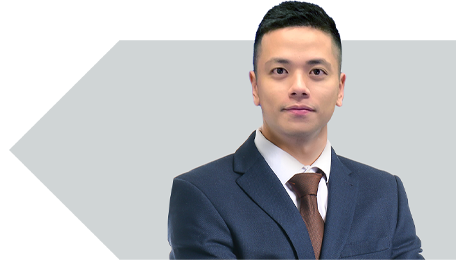
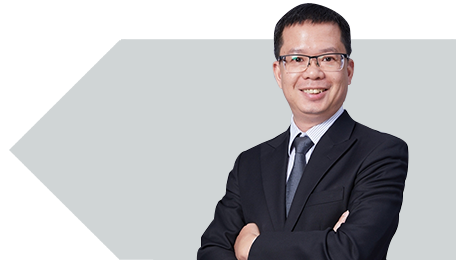
initial

diff --git a/source/index_vn.html b/source/index_vn.html
@@ -47,7 +47,7 @@
                 <td>&nbsp;</td>
                 <td style="margin: 0px; padding: 0px; font-family: Arial, Helvetica, sans-serif !important; font-size: 14px; line-height: 1.3;"><table width="100%" border="0" cellpadding="0" cellspacing="0" class="chs_body">
                   <tr>
-                    <td style="padding: 0; margin: 0; border: none; line-height: 1.3; font-size: 14px; font-family: Arial, Helvetica, sans-serif !important;"><img src="image/chs_hsbc_logo.jpg" width="291" height="30" alt="" style="display: block"/></td>
+                    <td style="padding: 0; margin: 0; border: none; line-height: 1.3; font-size: 14px; font-family: Arial, Helvetica, sans-serif !important;"><img src="image/chs_hsbc_logo.png" width="338" height="30" alt="" style="display: block"/></td>
                     <td width="10%" align="right" style="padding: 0; margin: 0; border: none; line-height: 1.3; font-size: 14px; font-family: Arial, Helvetica, sans-serif !important;">&nbsp;</td>
                   </tr>
                 </table></td>
@@ -89,7 +89,7 @@
 								    <td valign="top" align="left" style="margin: 0; padding: 0; border: none; font-family: Arial, Helvetica, sans-serif !important; font-size: 14px; line-height: 1.3;">&nbsp;</td>
 							    </tr>
 								  <tr>
-								    <td valign="top" align="left" style="margin: 0; padding: 0; border: none; font-family: Arial, Helvetica, sans-serif !important; font-size: 14px; line-height: 1.3;">Năm 2023, nền kinh tế Việt Nam dự kiến sẽ đối diện với nhiều thách thức trong và ngoài nước; khiến cho môi trường đầu tư sẽ có nhiều biến số và thay đổi liên tục. Nắm bắt nhu cầu cập nhật thông tin của Quý khách, HSBC Premier hân hạnh phối hợp cùng đối tác Dragon Capital tổ chức buổi hội thảo <strong>Khai mở tiềm năng đầu tư 2023</strong>, để chia sẻ cùng Quý khách các dịch vụ hỗ trợ tài chính toàn cầu của HSBC Premier và thông tin thị trường hữu ích.</td>
+								    <td valign="top" align="left" style="margin: 0; padding: 0; border: none; font-family: Arial, Helvetica, sans-serif !important; font-size: 14px; line-height: 1.3;">Năm 2023 nền kinh tế Việt Nam đã và đang đối diện với nhiều thách thức trong và ngoài nước; khiến cho môi trường đầu tư sẽ có nhiều biến số và thay đổi liên tục. Nắm bắt nhu cầu cập nhật thông tin của Quý khách, HSBC Premier hân hạnh phối hợp cùng đối tác VinaCapital tổ chức buổi hội thảo <strong>Khai mở tiềm năng đầu tư</strong>, để chia sẻ cùng Quý khách các dịch vụ hỗ trợ tài chính toàn cầu của HSBC Premier và thông tin thị trường hữu ích.</td>
 							    </tr>
 								  <tr>
 								    <td valign="top" align="left" style="margin: 0; padding: 0; border: none; font-family: Arial, Helvetica, sans-serif !important; font-size: 14px; line-height: 1.3;">&nbsp;</td>
@@ -124,7 +124,7 @@
 										  </table></td>
 								  </tr>
 								  <tr>
-									  <td valign="top" align="center" style="margin: 0; padding: 20px 0 0 0; border: none; font-family: Arial, Helvetica, sans-serif !important; font-size: 18px; line-height: 1.3; color: #FFFFFF;">Thứ 7, 18/03/2023<br />
+									  <td valign="top" align="center" style="margin: 0; padding: 20px 0 0 0; border: none; font-family: Arial, Helvetica, sans-serif !important; font-size: 18px; line-height: 1.3; color: #FFFFFF;">Thứ 7, 22/04/2023<br />
 9:00 AM - 11:30 AM</td>
 								  </tr>
 								  </table></td>
@@ -228,8 +228,8 @@ HSBC Premier kết nối toàn cầu<br />
 và hoạch định tài chính cho<br />
 cuộc sống thịnh vượng</strong><br />
 <br />
-<strong>Ông Phan Viết Đạt</strong><br />
-Giám đốc Quan Hệ Khách Hàng Premier - Khối Dịch vụ Quản lý Tài sản và Tài chính Cá nhân, HSBC Việt Nam</td>
+<strong>Ông Quán Ngọc Tuấn</strong><br />
+Giám đốc chi nhánh Hà Nội, khối Dịch vụ Quản lý Tài sản và Tài chính Cá nhân, HSBC Việt Nam</td>
 									  <td width="250" align="right" valign="middle" bgcolor="#FFFFFF" style="margin: 0; padding: 0; border: none; font-family: Arial, Helvetica, sans-serif !important; font-size: 14px; line-height: 1.3; color: #000000;"><img src="image/chs_box_5.png" width="230" height="auto" alt="" style="display:block"/></td>
 									  <td width="28" align="left" style="margin: 0; padding: 0; border: none; font-family: Arial, Helvetica, sans-serif !important; font-size: 14px; line-height: 1.3; color: #000000;">&nbsp;</td>
 								  </tr>
@@ -255,8 +255,8 @@ Giám đốc Quan Hệ Khách Hàng Premier - Khối Dịch vụ Quản lý Tài
 									  <td bgcolor="#006654" valign="middle" style="margin: 0; padding: 0 28px 0 0; border: none; font-family: Arial, Helvetica, sans-serif !important; font-size: 16px; line-height: 1.3; color: #FFFFFF;"><strong>Tổng quan tình hình kinh tế tại<br />
 Việt Nam và triển vọng 2023</strong><br />
 <br />
-<strong>Ông Nguyễn Sang Lộc</strong><br />
-Trưởng phòng Quản lý Danh mục đầu tư, Dragon Capital</td>
+<strong>Ông Đinh Đức Minh</strong><br />
+Giám đốc đầu tư, Quỹ đầu tư cổ phiếu Hưng Thịnh Vinawealth (VEOF), VinaCapital</td>
 									  <td width="28" align="left" style="margin: 0; padding: 0; border: none; font-family: Arial, Helvetica, sans-serif !important; font-size: 14px; line-height: 1.3; color: #000000;">&nbsp;</td>
 								  </tr>
 								  </table></td>
@@ -289,8 +289,8 @@ chiến lược phân bổ tài sản</strong><br />
 <br />
 <strong>Ông Trần Anh Tuấn</strong><br />
 Giám đốc Phát triển<br />
-kênh Phân phối<br />
-Đối tác, Dragon Capital</td>
+kênh Phân phối,<br />
+Đối tác Dragon Capital</td>
 									  <td width="250" align="right" valign="middle" bgcolor="#006654" style="margin: 0; padding: 0; border: none; font-family: Arial, Helvetica, sans-serif !important; font-size: 14px; line-height: 1.3; color: #000000;"><img src="image/chs_box_7.png" width="230" height="auto" alt="" style="display:block"/></td>
 									  <td width="28" align="left" style="margin: 0; padding: 0; border: none; font-family: Arial, Helvetica, sans-serif !important; font-size: 14px; line-height: 1.3; color: #000000;">&nbsp;</td>
 								  </tr>
@@ -316,7 +316,7 @@ kênh Phân phối<br />
 						    <td style="margin: 0; padding: 0; border: none; font-family: Arial, Helvetica, sans-serif !important; font-size: 14px; line-height: 1.3; color: #000000;"><table width="100%" border="0" cellpadding="0" cellspacing="0" class="chs_body">
 								<tr>
 									<td width="28" style="margin: 0; padding: 0; border-right: 4px solid #FFFFFF; font-family: Arial, Helvetica, sans-serif !important; font-size: 14px; line-height: 1.0; color: #000000;">&nbsp;</td>
-									<td style="margin: 0; padding: 0 0 0 10px; border: none; font-family: Arial, Helvetica, sans-serif !important; font-size: 16px; line-height: 1.0; color: #FFFFFF;"><strong>10:30:</strong> Trao đổi trực tiếp với diễn giả HSBC Premier và Dragon Capital</td>
+									<td style="margin: 0; padding: 0 0 0 10px; border: none; font-family: Arial, Helvetica, sans-serif !important; font-size: 16px; line-height: 1.0; color: #FFFFFF;"><strong>10:30:</strong> Trao đổi trực tiếp với diễn giả HSBC Premier và VinaCapital</td>
 								</tr>
 								</table></td>
 					      </tr>
@@ -359,7 +359,7 @@ kênh Phân phối<br />
 					<tr>
 					  <td style="margin: 0; padding: 0; border: none; font-family: Arial, Helvetica, sans-serif !important; font-size: 14px; line-height: 1.3; color: #000000;">&nbsp;</td>
 					  <td style="margin: 0; padding: 0; border: none; font-family: Arial, Helvetica, sans-serif !important; font-size: 14px; line-height: 1.3; color: #000000;">Chúng tôi rất mong chờ được chào đón Quý khách trong buổi hội thảo này.
-Vì số lượng chỗ ngồi có giới hạn, xin vui lòng liên hệ Giám đốc Quan hệ Khách hàng Premier để xác nhận tham gia trước ngày 16/03/2023 (Thứ Năm).<br />
+Vì số lượng chỗ ngồi có giới hạn, xin vui lòng liên hệ Giám đốc Quan hệ Khách hàng Premier để xác nhận tham gia trước ngày 14/04/2023 (Thứ Sáu).<br />
 <br />
 Thư mời này chỉ dành riêng cho Quý khách.<br />
 <br />
